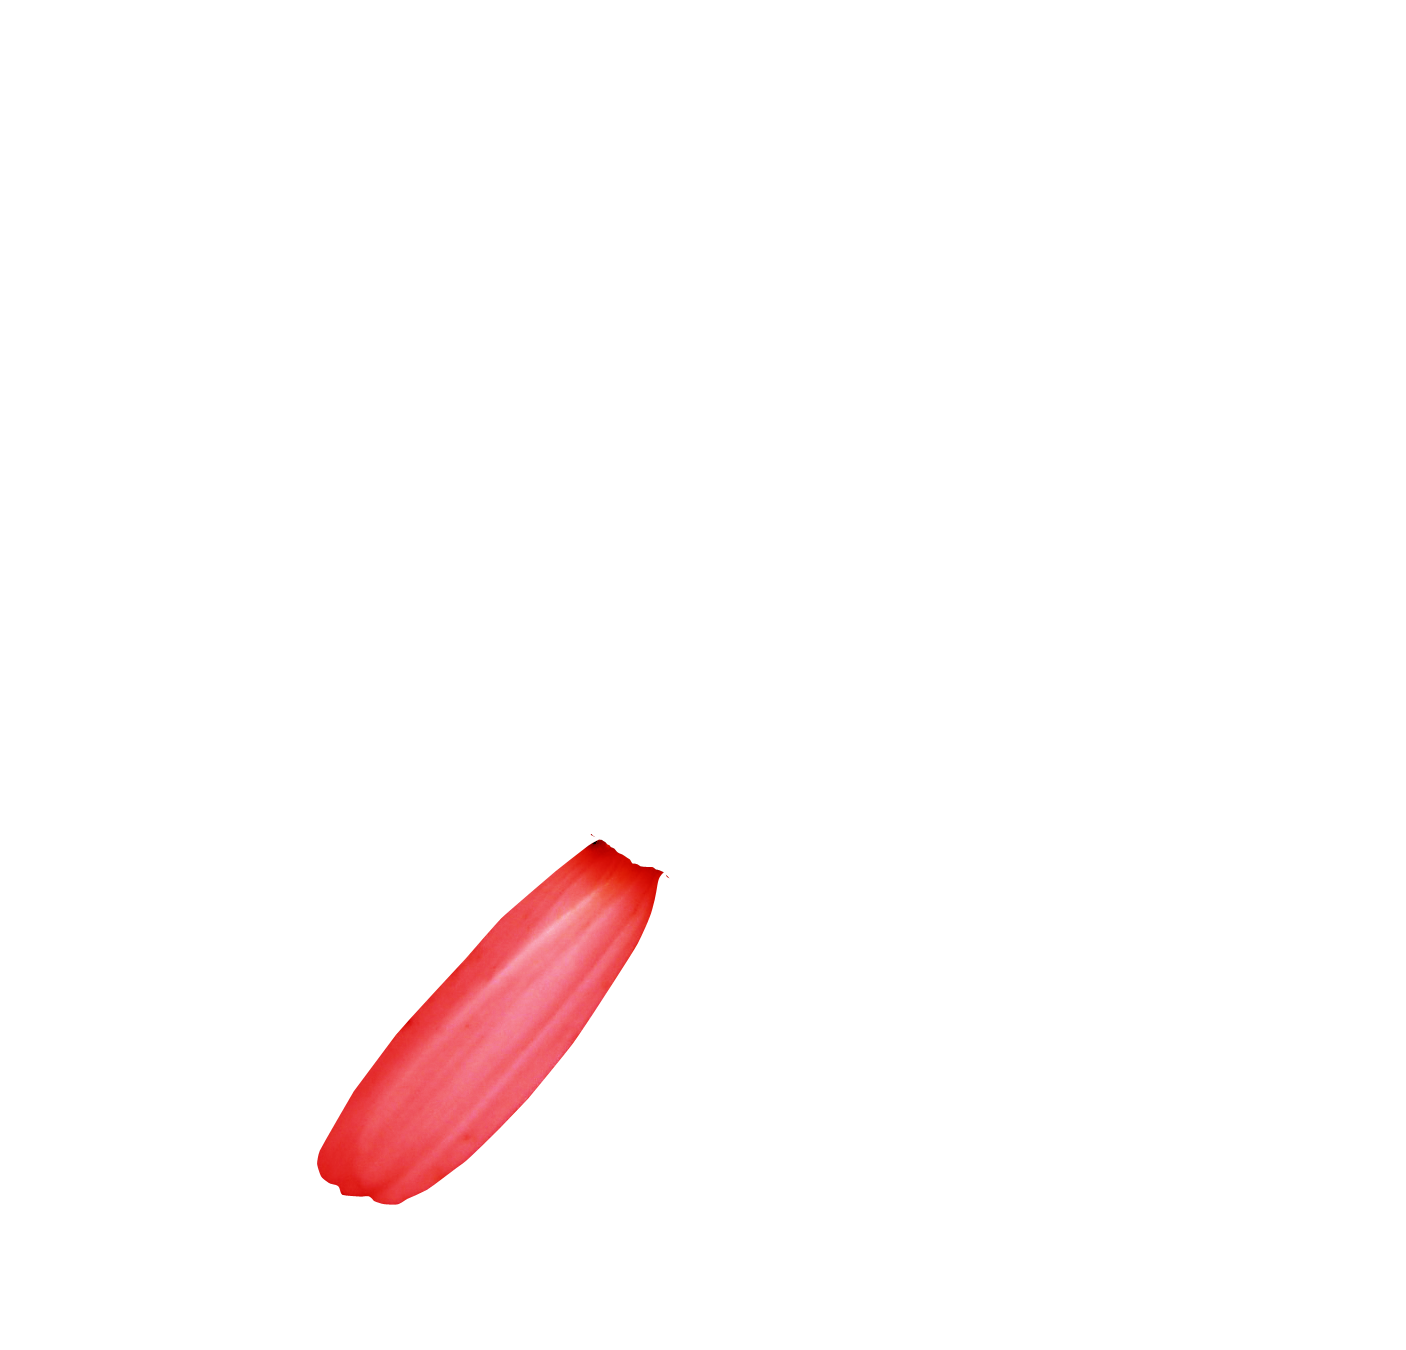
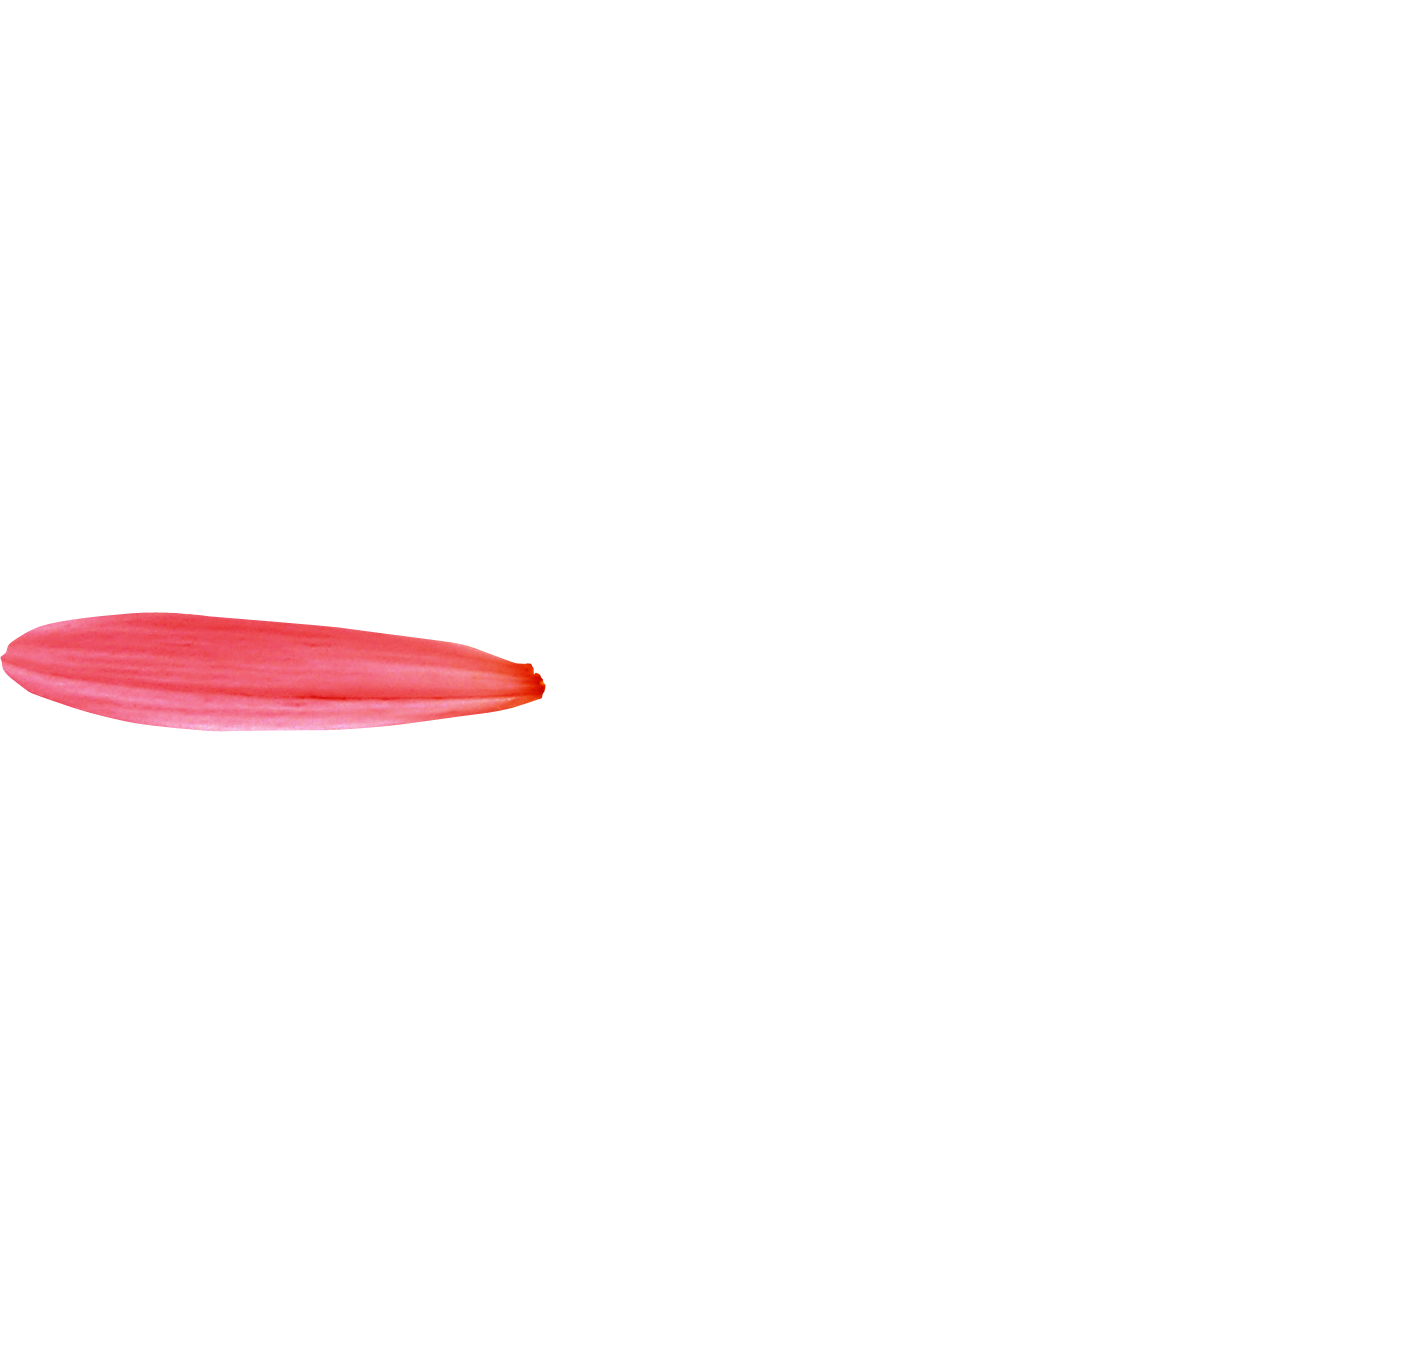
arrange

Changed region(s): [[0.2141, 0.6222, 0.4893, 0.9022], [0.0, 0.4356, 0.3976, 0.56]]

diff --git a/index.htm b/index.htm
@@ -17,12 +17,12 @@
  	<body> 
 		<p><img src="orig.png" id="back" class="navimage_layer"></p>
         
-        <p><img src="orig.png" usemap="#map" id="navimg" class="navimage_layer"></p>
+		<p><img src="v1-2.png" usemap="#map" id="navimg" class="navimage_layer"></p>
 		<p><map name="map"> 
-               <area shape="poly" img="v1-1.png" href="http://blinds.miketti.com" alt="Шторы" coords="314,1155, 362,1077, 506,909, 600,837, 656,873, 644, 924, 525,1100, 400,1200, 320,1180" target="_blank">
-               <area shape="poly" img="v1-2.png" href="http://acsoftware.narod.ru" alt="Софт" coords="42,625, 164,612, 460,645, 520,665, 530,662, 545,685, 540,700, 500,710, 333,730, 190,730, 110,716, 30,690, 2,668, 8,645" target="_blank">
-               <area shape="poly" img="v1-3.png" href="http://miketti.ru" alt="Сайты" coords="56,770, 290,745, 320,745, 345,740, 410,733, 535,740, 535,746, 553,761, 505,793, 394,830, 273,850, 120,845, 49,839, 26,813, 25,800" target="_blank">
-               <area shape="poly" img="v1-4.png" href="http://aceforked.livejournal.com" alt="ЖЖ" coords="693,1350, 665,1300, 660,1170, 696,940, 712,887, 730,877, 750,890, 775,990, 780,1110, 774,1230, 746,1330, 726,1350" target="_blank">
+			<area shape="poly" img="v1-1.png" href="http://acsoftware.narod.ru" alt="Софт" coords="42,625, 164,612, 460,645, 520,665, 530,662, 545,685, 540,700, 500,710, 333,730, 190,730, 110,716, 30,690, 2,668, 8,645"  target="_blank">
+			<area shape="poly" img="v1-2.png" href="http://blinds.miketti.com" alt="Сайты" coords="56,770, 290,745, 320,745, 345,740, 410,733, 535,740, 535,746, 553,761, 505,793, 394,830, 273,850, 120,845, 49,839, 26,813, 25,800"  target="_blank">
+			<area shape="poly" img="v1-3.png" href="http://miketti.ru" alt="Шторы" coords="314,1155, 362,1077, 506,909, 600,837, 656,873, 644, 924, 525,1100, 400,1200, 320,1180" target="_blank">
+			<area shape="poly" img="v1-4.png" href="http://aceforked.livejournal.com" alt="ЖЖ" coords="693,1350, 665,1300, 660,1170, 696,940, 712,887, 730,877, 750,890, 775,990, 780,1110, 774,1230, 746,1330, 726,1350" target="_blank">
   		</map></p>
 
          <script>
@@ -77,13 +77,27 @@
                  $(window).resize(function() {
                      document.location = document.location;
                  })
+		
+		 function PetalAnimation() {
+			CurrentPetal = 2;
+			PetalTimerId = setInterval(function() {
+                	     $("#navimg").attr("src", $($("area")[CurrentPetal]).attr("img"));
+			     CurrentPetal++;
+			     if (CurrentPetal > $("area").length - 1) {
+				CurrentPetal = 0;
+		 	    }
+		 	}, 500);
+		 }
+		 PetalAnimation();
 
                  $("area").hover(
                      function () {
+			 clearInterval(PetalTimerId);
                          $("#navimg").attr("src", $(this).attr("img"));
                      },
                      function () {
                          $("#navimg").attr("src", $("#back").attr("src"));
+			 PetalAnimation();
                      }
                  );
              });
